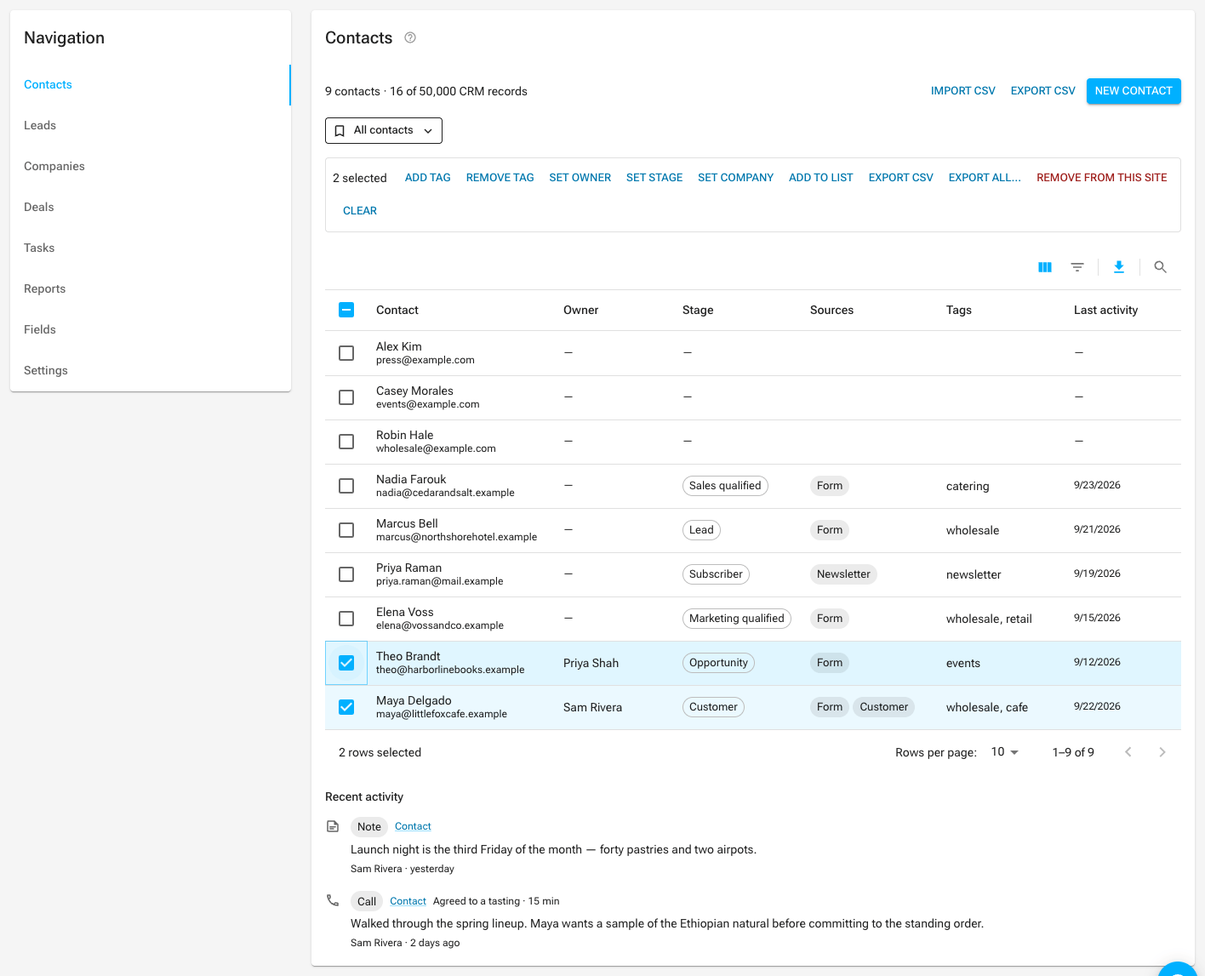
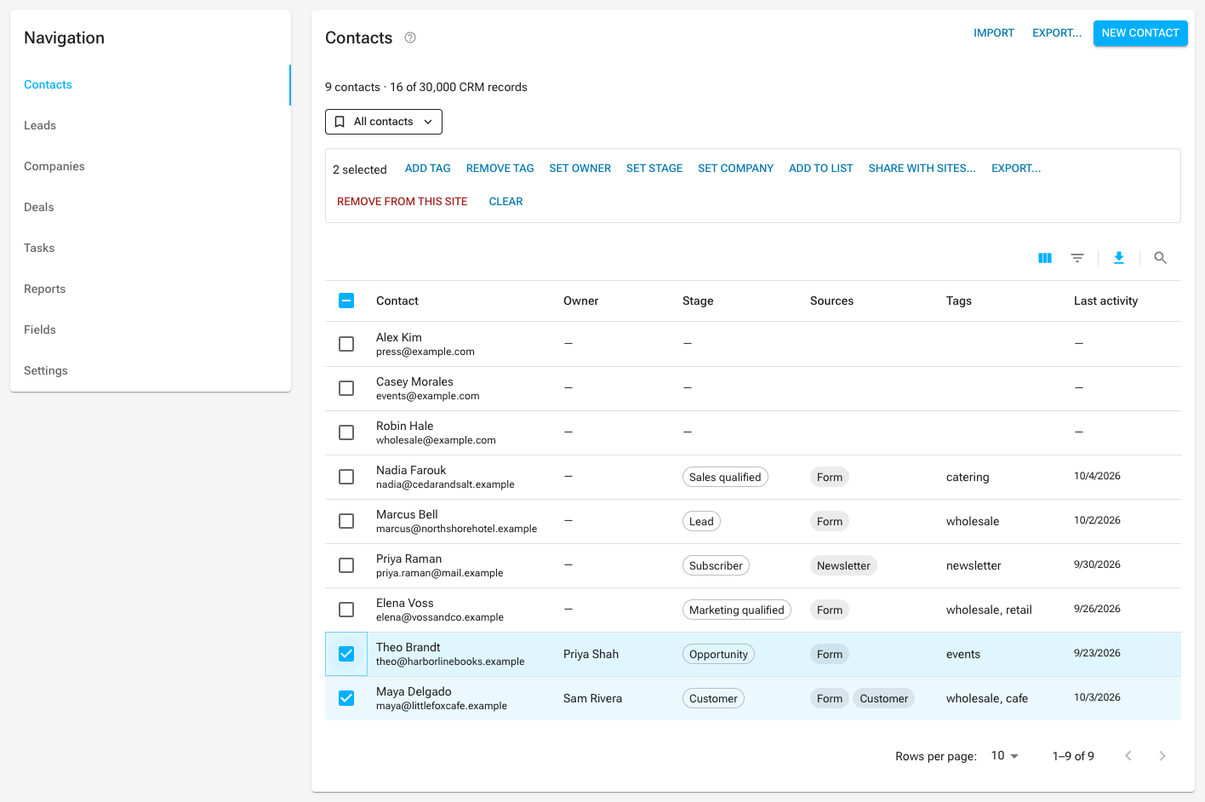
docs(data): import and export docs show the wizard, the field picker and the new buttons (AGL-3547)
Captured on the seeded emulator stack: the Data page with Import and
Export, the import wizard's Columns step, the export dialog's field
picker, the survey guide's Data page, and the CRM Contacts list with
its Import / Export… header and bulk Export… (the screenshot item of
AGL-3552). Prose that still sent readers to CSV / JSON buttons now
names Export and its formats.

diff --git a/libs/aglyn/src/lib/app-utils/docs-index.generated.ts b/libs/aglyn/src/lib/app-utils/docs-index.generated.ts
@@ -743,7 +743,7 @@ export const DOCS_SECTION_INDEX: readonly DocsSection[] = [
   { path: '/content-and-data/datasets/overview', title: 'Datasets & Dynamic Content', heading: 'Repeatable components', anchor: '#repeatable-components', text: 'Point any element at a dataset and it renders once per record — a list, a grid or a gallery driven by your data. A card, an image, a row, a whole placed component: each one is copied per record, and an element that holds a list can repeat its contents instead, so the element stays the frame the items fill.\nThe Besigner draws the real copies on the canvas, from your real records and in the order the published page will render them, and a repeat badge names what an element repeats over and how many records it found. The copy you edit is the design; changing it changes all of them.\nA filter, a sort and a limit narrow what renders, and a repeat renders at most 100 records however high the limit is set.\nSee Repeat over data for the full walkthrough.' },
   { path: '/content-and-data/datasets/overview', title: 'Datasets & Dynamic Content', heading: 'Record pages', anchor: '#record-pages', text: 'A dataset can also give every record a page of its own — a page per service, per location or per team member, each at its own address such as /services/kitchen-remodeling. You design one page and make it the dataset\'s record template in the Besigner\'s Page Properties, under Record pages: pick the dataset, the address the pages live under (one segment like services, or nested like services/residential), and the field that holds each record\'s own segment.\n- Each record\'s segment lives in a Page address field (see Build a data model). It can fill in from a name field, and it stays put when the record is renamed.\n- Inside the template, {{item.field}} fills in from the record, exactly as in a repeat, reference hop included. A listing that repeats over the dataset links to each page with {{item.url}}.\n- The template stops answering at its own address. Every record page is in the sitemap with its own canonical address, and /llms.txt names the group.\n- Record pages and their template don\'t count toward your plan\'s pages; your dataset limits bound them instead.\nSee Service and location pages from a dataset for the full walkthrough.' },
   { path: '/content-and-data/datasets/overview', title: 'Datasets & Dynamic Content', heading: 'Who a dataset is shared with', anchor: '#who-a-dataset-is-shared-with', text: 'Datasets belong to the workspace, not to a single site, so one dataset can drive pages on every site you run. When that isn\'t what you want, the Sharing control on each dataset decides which sites can see it:\n- All sites — everyone in the workspace, on every site.\n- Selected sites… — pick the sites that share it, up to 30.\nWhere a new dataset starts depends on where you create it and on your workspace\'s Default sharing for new data and media, the setting at the top of the workspace Media page:\n- Created on a site\'s Data page — it follows that setting. Set to All sites, the dataset starts on All sites. Set to Only the site they were created in, it starts shared with that site alone, and its control reads Selected sites… with just that site picked.\n- Created on the organization Data page — it starts on All sites whatever the setting says, because there is no site to limit it to.\n- Installed from the Marketplace, or created through the REST API — it starts on All sites too. Both act for the whole organization, not for one site.\nThe setting only decides where a new dataset starts. It changes nothing that already exists, and you can widen or narrow any dataset afterwards.\nA dataset with no sharing stored is visible to no site; its control reads Not shared with any site until you choose one of the two.\nThis matters most for agencies. If you run three internal sites alongside twelve client sites, your rate card can be shared with the internal three and stay invisible to the clients — including to the client collaborators you have invited, who will not see it in the Data page, the pickers, or anywhere else.\nSharing is enforced on the server, not just in the console. A site cannot render a dataset it hasn\'t been shared with even if a page explicitly asks for it by name.\nA few co' },
-  { path: '/content-and-data/datasets/overview', title: 'Datasets & Dynamic Content', heading: 'Import & export', anchor: '#import--export', text: 'Datasets round-trip via CSV and JSON: export your records, edit them elsewhere, and re-import with validation on the way in.\nA whole-site export includes the datasets and media that site can see, and nothing else — an agency exporting a client site gets that client\'s data only. It carries up to 50 datasets and 1,000 records from each, so export a larger dataset on its own. On restore, everything comes back shared with the site you restored into, not with whatever it was shared with before. Widen it afterwards if you meant to share it. That direction is deliberate: a bundle can be restored into a different site or a different workspace entirely, and quietly re-publishing one client\'s data across another\'s sites would be far worse than an extra click.' },
+  { path: '/content-and-data/datasets/overview', title: 'Datasets & Dynamic Content', heading: 'Import & export', anchor: '#import--export', text: 'Datasets round-trip as CSV, JSON or NDJSON: export the fields you choose, edit them elsewhere, and import them back through a wizard that matches columns and records and shows a dry run before anything is written — see Import & export.\nA whole-site export includes the datasets and media that site can see, and nothing else — an agency exporting a client site gets that client\'s data only. It carries up to 50 datasets and 1,000 records from each, so export a larger dataset on its own. On restore, everything comes back shared with the site you restored into, not with whatever it was shared with before. Widen it afterwards if you meant to share it. That direction is deliberate: a bundle can be restored into a different site or a different workspace entirely, and quietly re-publishing one client\'s data across another\'s sites would be far worse than an extra click.' },
   { path: '/content-and-data/datasets/overview', title: 'Datasets & Dynamic Content', heading: 'Related', anchor: '#related', text: '- Forms & lead capture\n- Bindings, variables & functions\n- Content collections & blog' },
   { path: '/content-and-data/datasets/relations', title: 'Relations', heading: '', anchor: '', text: 'Relations\nReal data is connected — posts have authors, products have categories. Relations let a record reference other records.\nPlan availability Starter and above — wherever datasets are available.' },
   { path: '/content-and-data/datasets/relations', title: 'Relations', heading: 'Reference fields', anchor: '#reference-fields', text: 'Add a reference field to a model to point at records in another dataset — the target picker never offers the dataset you are editing. For example, a post can reference its author.' },
@@ -1068,7 +1068,7 @@ export const DOCS_SECTION_INDEX: readonly DocsSection[] = [
   { path: '/guides/build-and-publish-a-survey', title: 'Build & publish a survey', heading: '4. Configure the fields', anchor: '#4-configure-the-fields', text: 'Select each Form Field and set its properties in the inspector:\n| Property | What it does |\n| Field name | The key the value is stored under in submissions (and in the inbox copy). |\n| Maps to schema field | Which of the dataset\'s schema fields this value is stored under. The dropdown lists the fields of the dataset chosen on the Form (see step 5) and stores the stable field id, so renaming the field later never breaks the mapping. Left on None, the value matches a dataset field by name instead. |\n| Label | The visible input label ("How satisfied are you?"). |\n| Placeholder | An optional gray hint inside the empty input ("you@company.com"). It is not a label — it disappears as soon as someone types, so always keep Label set. Radio, checkbox, and rating fields ignore it; a dropdown shows it until a choice is made. Clear it to remove the hint. |\n| Type | Text (default), Email, Multiline, Dropdown, Radio choice, Checkboxes, or Star rating. |\n| Options | Choices for dropdown, radio, and checkbox fields — one per line or comma-separated. Ignored by other types. |\n| Required? | Whether the field must be filled; a required checkbox group needs at least one box ticked. |\nPick the dataset first "Maps to schema field" lists the fields of whichever dataset the Form is pointed at — set the Form\'s Write to dataset (step 5) before mapping the fields, or the dropdown reads No dataset selected on the form.\nFor this survey:\n1. satisfaction — Type Star rating, label "How satisfied are you?". The five stars submit their count (4), which the form stores as text.\n2. visit — Type Radio choice, Options First time, Monthly, Weekly.\n3. topics — Type Checkboxes, Options Products, Support, Pricing. Visitors can tick several; the submission joins them with , .\n4. comments — Type Multiline for free' },
   { path: '/guides/build-and-publish-a-survey', title: 'Build & publish a survey', heading: '5. Point the form at the dataset', anchor: '#5-point-the-form-at-the-dataset', text: 'Select the Form container itself and fill its properties:\n- Form name — identifies the form in your submissions inbox (Visitor survey).\n- Write to dataset — pick Survey responses from the dropdown, which lists your organization\'s datasets by display name. The form stores the dataset\'s id, so renaming the dataset later never breaks the binding. Submissions append a record; the inbox always keeps its own copy either way.\n- Submit label — the button text (defaults to Send).\n- Success message — shown in place of the form after a successful submit.\nRename-safe by id Both pickers bind by stable id: the Form stores the dataset\'s document id and each field\'s "Maps to schema field" stores the model field id. Rename the dataset or its fields freely — records keep landing. Unmapped values still match schema fields by name (field name = field id); values that match nothing are dropped from the record (the inbox copy still has everything). Forms built before the pickers keep working through their stored dataset name — shown as Write to dataset (legacy name) until you pick the dataset above and clear it.' },
   { path: '/guides/build-and-publish-a-survey', title: 'Build & publish a survey', heading: '6. Publish', anchor: '#6-publish', text: 'Click Publish in the Besigner\'s top-right (it flips to Unpublish once live). If the page has no URL path yet you\'re prompted to set one first. The survey is now served at /survey on your site\'s domain.' },
-  { path: '/guides/build-and-publish-a-survey', title: 'Build & publish a survey', heading: '7. Watch responses arrive', anchor: '#7-watch-responses-arrive', text: 'Every submission does three things:\n- appends a record to Survey responses — the Data page updates live;\n- files an inbox copy under the form\'s name (see Forms & lead capture);\n- fires the formSubmission automation event, so workflows and actions can react (send a thank-you alert, notify your team, write other datasets).\nOn the Data page, use Filters (satisfaction = 5) or Search (a word from the comments) to narrow the records. Both reach every record in the dataset, not only the page on screen; a number field offers = but no ranges, and the column headers don\'t sort. See Filter and search the records. Export everything with the CSV / JSON buttons.\nChart it Bind a container\'s Repeat over dataset to Survey responses and reference {{item.satisfaction}} inside it to render responses back onto a (members-only?) results page. The deep-dive covers repeatables.' },
+  { path: '/guides/build-and-publish-a-survey', title: 'Build & publish a survey', heading: '7. Watch responses arrive', anchor: '#7-watch-responses-arrive', text: 'Every submission does three things:\n- appends a record to Survey responses — the Data page updates live;\n- files an inbox copy under the form\'s name (see Forms & lead capture);\n- fires the formSubmission automation event, so workflows and actions can react (send a thank-you alert, notify your team, write other datasets).\nOn the Data page, use Filters (satisfaction = 5) or Search (a word from the comments) to narrow the records. Both reach every record in the dataset, not only the page on screen; a number field offers = but no ranges, and the column headers don\'t sort. See Filter and search the records. Download the records with Export, which lets you pick the fields and the format (CSV, JSON or NDJSON) — see Import & export.\nChart it Bind a container\'s Repeat over dataset to Survey responses and reference {{item.satisfaction}} inside it to render responses back onto a (members-only?) results page. The deep-dive covers repeatables.' },
   { path: '/guides/build-and-publish-a-survey', title: 'Build & publish a survey', heading: 'Related', anchor: '#related', text: '- Datasets & schema deep-dive\n- Forms & lead capture\n- Publish your first page\n- Workflows & actions' },
   { path: '/guides/coming-soon-launch', title: 'Launch a coming-soon page', heading: '', anchor: '', text: 'Launch a coming-soon page while the rest of your site stays private\nYou have a domain, a half-built site, and a launch date. You want visitors to land on something deliberate — "here\'s what\'s coming, tell me when it\'s ready" — while the forty pages behind it stay out of Google until you\'re happy with them.\nThis walkthrough is the whole loop: build the page → make it home → hide the rest → collect signups → flip everything back on launch day. It\'s the same pattern Aglyn uses on its own site.\nPlan availability Everything here works on Free: pages, forms, the inbox, per-page visibility, and the site-wide search switch. Writing signups into a dataset (step 4) needs the data store, which unlocks on Starter and above — the inbox copy is always kept either way.' },
   { path: '/guides/coming-soon-launch', title: 'Launch a coming-soon page', heading: '1. Build the coming-soon page', anchor: '#1-build-the-coming-soon-page', text: 'Create the page first; you\'ll point your domain at it in step 2.\n1. Go to Pages → New page. Title it Coming soon. Give it any slug for now — coming-soon is fine — you\'ll change it to / in the next step.\n2. Open it in the Besigner and put the essentials on it. A coming-soon page that only says "coming soon" wastes the visit. Aim for:\n- What\'s coming, and roughly when. One sentence and a month beats a countdown timer you\'ll have to move.\n- A notify-me form — see below.\n- How to reach a human. An email address or a contact link; people who arrive early are often the ones who most want to talk to you.\n- Links out — your documentation, your changelog, your social accounts, wherever you already post. These give an early visitor somewhere to go instead of bouncing.\n3. Publish the page.\nThe notify-me form\nAdd a Form from the element picker with a single Form Field of type Email, and set the Form\'s Success message to something that confirms the signup ("Thanks — we\'ll email you when we open"). The Forms & lead capture page covers the form elements and every field property in full; the only thing that matters here is that you give the field a Field name you\'ll recognize later, such as email.' },
@@ -1094,7 +1094,7 @@ export const DOCS_SECTION_INDEX: readonly DocsSection[] = [
   { path: '/guides/datasets-and-schema', title: 'Datasets & schema deep-dive', heading: 'Import & export', anchor: '#import--export', text: 'The Data page moves records in and out as CSV, JSON or NDJSON:\n- Export opens a dialog where you pick the fields — every field of the dataset, plus the record\'s ID and its created and updated times — and whether to take every record or only what the table\'s filters show. Your choice is remembered for next time.\n- Import opens a step-by-step wizard: upload or paste a file, check how its columns match the dataset\'s fields, decide what happens to values the dataset does not hold, choose how rows find the records they update, and review a dry run before anything is written. An import can be undone for seven days.\nSee import & export for each step and the choices it offers.' },
   { path: '/guides/datasets-and-schema', title: 'Datasets & schema deep-dive', heading: 'Repeatables', anchor: '#repeatables', text: 'Containers (like a Stack) have a Repeat over dataset property. Set it and the container\'s children become an item template, rendered once per record on the published site:\n1. Select the container and set Repeat over dataset to your dataset (stored by id, so renames never break it).\n2. Inside the children, reference record values with {{item.fieldId}} — e.g. {{item.name}}, {{item.price}}.\n3. Reference fields support one hop: {{item.author.name}} resolves the referenced record\'s field.\n4. Optionally set a Repeat limit, a Repeat filter (price , >=, <, <=, contains), and a Repeat sort (price desc).\nThe canvas doesn\'t expand rows while designing — it shows a repeat notice on the container ("children render once per record on the live site") so you design a single template. Up to 100 records render per repeatable.' },
   { path: '/guides/datasets-and-schema', title: 'Datasets & schema deep-dive', heading: 'Everything that writes records', anchor: '#everything-that-writes-records', text: '| Writer | How it behaves |\n| Console — Add record / record editor | Typed inputs per field; validated and quota-checked. |\n| Console — Import records | Bulk CSV/JSON with validation, upsert, and quota math. |\n| Forms — the Form element\'s Write to dataset | Appends on each submission. The dataset is bound by id (a dropdown; legacy forms still match by name) and each form field can map to a schema field by id via Maps to schema field, with name-matching as the fallback — so renames never lose data. Best-effort (quota-full submissions keep only the inbox copy). See the survey guide. |\n| Automations — the Write to a dataset step | Appends a record from a workflow/action run. |\n| Automations — the Update a dataset record step | Updates a matching record (by email) or appends when none matches. |\nAutomation steps live in the Do list of an action — see workflows & actions.' },
-  { path: '/guides/datasets-and-schema', title: 'Datasets & schema deep-dive', heading: 'Deleting a dataset', anchor: '#deleting-a-dataset', text: 'Delete removes the dataset and every record in it, permanently — the confirmation tells you how many documents go with it. There is no undo and no retention window, so export first (CSV or JSON) if you might want the rows back. Deleting a single record from the table leaves the dataset itself alone.\nThe same applies to the two other things that hold records inside them: deleting an email list takes its enrolled subscribers, and deleting a collection takes the content entries published under it.' },
+  { path: '/guides/datasets-and-schema', title: 'Datasets & schema deep-dive', heading: 'Deleting a dataset', anchor: '#deleting-a-dataset', text: 'Delete removes the dataset and every record in it, permanently — the confirmation tells you how many documents go with it. There is no undo and no retention window, so Export it first if you might want the rows back. Deleting a single record from the table leaves the dataset itself alone.\nThe same applies to the two other things that hold records inside them: deleting an email list takes its enrolled subscribers, and deleting a collection takes the content entries published under it.' },
   { path: '/guides/datasets-and-schema', title: 'Datasets & schema deep-dive', heading: 'Related', anchor: '#related', text: '- Build & publish a survey\n- Datasets overview\n- Build a data model\n- Relations\n- Bindings, variables & functions' },
   { path: '/guides/install-your-first-plugin', title: 'Install your first marketplace item', heading: '', anchor: '', text: 'Install your first marketplace item\nThe Marketplace is where you add capability to Aglyn that you didn\'t build yourself: plugins, ready-made site templates, themes, layouts, components, dataset schemas and email templates. This guide walks the whole loop once — find, install, use, upgrade, remove — clicking every step.\nNo code, and nothing you can\'t undo. The only decision worth slowing down for is which sites it lands on, and step 4 is entirely about that.\nPlan availability Free to browse and install. Individual listings may cost money — the button says so before you buy. Publishing your own listing is a separate thing and needs Pro; see Publish a plugin.' },
   { path: '/guides/install-your-first-plugin', title: 'Install your first marketplace item', heading: 'Before you start', anchor: '#before-you-start', text: 'You need an organization with at least one site, and a role that can install. By default that\'s owner, admin and editor — installing is treated as content work, not an account setting. Viewers cannot, and a custom role can only if it carries the Install plugins permission.\nIf the Marketplace opens but the Install button doesn\'t, that\'s the role, not the plan — see Teams & roles.' },
@@ -1130,7 +1130,7 @@ export const DOCS_SECTION_INDEX: readonly DocsSection[] = [
   { path: '/guides/run-an-agency-workspace', title: 'Run an agency workspace', heading: 'Step 2 — Build your house style once', anchor: '#step-2-templates', text: 'The single biggest saving in agency work is not rebuilding the same footer.\n1. Build one site properly — nav, footer, contact page, legal pages, theme.\n2. Save it as a template from the site\'s settings. See Save a template.\n3. Start every new client from that template instead of from blank.\nTwo more things worth doing once:\n- Reusable components for the pieces you\'ll place on many pages within a site. Edit the component, every instance updates.\n- The organization media library for assets shared across clients — your own logo, stock photography you\'ve licensed, icon sets. Files there are available to every site in the workspace, so you upload once.\nKeep client assets in the client\'s site library The organization library is shared across every site. Client logos and photography belong in that site\'s library, not the shared one — otherwise the next project\'s media picker is full of the last client\'s brand.' },
   { path: '/guides/run-an-agency-workspace', title: 'Run an agency workspace', heading: 'Step 3 — Decide who can touch what', anchor: '#step-3-access', text: 'Aglyn has two shapes of teammate, and the distinction is the one agency-specific thing worth learning properly:\n| | Workspace manager | Site collaborator |\n| Sees | Every site in the organization | Only the sites you grant |\n| Costs | A manager seat | A collaborator seat on each site they can reach |\n| Use for | Your own staff | Contractors, and the client |\nThe Access column is where the difference shows: a manager reads All sites, a collaborator reads the number of sites they were granted. The line above the table counts the two separately, because only managers use a team seat.\nGive clients collaborator access, not manager access. A manager can see every other client\'s site, their content and their form submissions. That is usually a contractual problem, and it\'s not undone by anyone being careful.\nSteps:\n1. Organization → Team to add your own staff as managers — leave All sites ticked on the invite row.\n2. For a collaborator, invite them from the same page with All sites unticked, then use their Access cell to pick the sites and give each one a role. Access is granted per site from here, not from the site itself.\n3. Give a client who should draft but not go live the Author role on their site. It is the site role between Viewer and Editor: it can edit every kind of content — pages, layouts, components and collection entries — and it cannot publish any of it. No route, no live version, no scheduled publish, no published entry. It also cannot read the site\'s orders.\n4. Use custom roles for narrowing at the organization level — who may manage members, buy add-ons, or see billing.\nSeats are metered and enforced per plan, and both kinds are available as add-ons if you outgrow the included count. A pending invite holds a seat — the count is checked when you send it and aga' },
   { path: '/guides/run-an-agency-workspace', title: 'Run an agency workspace', heading: 'Step 4 — Domains and handover', anchor: '#step-4-domains', text: 'Each site gets a free .aglyn.app subdomain immediately, which is what you build and demo on. Connect the real domain at launch.\nThe handover question is who owns the DNS, and it\'s worth settling in writing at the start of a project rather than at 5pm on launch day:\n- You hold the registrar — fastest to launch, and you can fix things. It also means you\'re the one a client has to ask to leave, which some clients dislike and some contracts forbid.\n- The client holds the registrar — slower (you\'ll be sending them records to paste), cleaner to hand over, and the honest default for most work.\nEither way the records are the same, and the site\'s setup page shows them. See Connect a domain.' },
-  { path: '/guides/run-an-agency-workspace', title: 'Run an agency workspace', heading: 'Step 5 — Back up before you hand over', anchor: '#step-5-backups', text: 'On Pro and above, every site exports a full backup from its own settings. Take one:\n- before any large redesign, so "put it back how it was" is a real option;\n- at handover, and give the client a copy — it is theirs, and having it makes the relationship easier to end well;\n- before deleting anything. Deleting a site is immediate and permanent, with no hold period — unlike deleting an organization, which has one. There is no undo and we keep no copy.\nTake one from the site\'s Admin → Backup & template. It includes the datasets that site can see — up to 50, with up to 1,000 records each — so a larger dataset also wants its own export from the Data tab (CSV or JSON), which downloads every record.' },
+  { path: '/guides/run-an-agency-workspace', title: 'Run an agency workspace', heading: 'Step 5 — Back up before you hand over', anchor: '#step-5-backups', text: 'On Pro and above, every site exports a full backup from its own settings. Take one:\n- before any large redesign, so "put it back how it was" is a real option;\n- at handover, and give the client a copy — it is theirs, and having it makes the relationship easier to end well;\n- before deleting anything. Deleting a site is immediate and permanent, with no hold period — unlike deleting an organization, which has one. There is no undo and we keep no copy.\nTake one from the site\'s Admin → Backup & template. It includes the datasets that site can see — up to 50, with up to 1,000 records each — so a larger dataset also wants its own Export from the Data tab (CSV, JSON or NDJSON), which downloads every record.' },
   { path: '/guides/run-an-agency-workspace', title: 'Run an agency workspace', heading: 'Step 6 — Billing, and what to tell clients', anchor: '#step-6-billing', text: 'The invoice is yours, at the organization level. Aglyn doesn\'t bill your clients and doesn\'t split an invoice per site. However you charge them — retainer, per site, marked-up hosting — is between you and them.\nTwo things that are per site, and are the ones clients ask about:\n- Storefront platform fees come out of that site\'s own sales.\n- Usage meters (page views, storage, form submissions, emails) roll up to your organization total. A single client having a very good month can move your invoice, so watch the usage figures on the billing page rather than being surprised.\nSales tax is added on top of your plan price where applicable, calculated from your workspace\'s billing address — see Sales tax.' },
   { path: '/guides/run-an-agency-workspace', title: 'Run an agency workspace', heading: 'Step 7 — Automate the repetitive part', anchor: '#step-7-automate', text: 'Once you\'re running several sites, the console stops being the fastest way to do routine things. The REST API reads across one organization with one key:\n- Sites — enumerate every site in that organization and its domain, which is the basis of any status dashboard you build.\n- Form submissions — pull the leads from every site in the organization into one place, or into a CRM, and mark each one read as you go so the next run doesn\'t send it twice.\n- Orders and Products — for clients who sell.\n- Media — audit alt text across the organization\'s sites, or find what\'s filling your storage quota.\nStart with Your first API call, which walks through creating a key and making a request from scratch.\nA key never spans organizations API keys are minted per organization, and every endpoint is scoped to the organization the key belongs to. There is no key that reads across several.\nSo this step is only a single request if you took the one organization side of the choice in the mental model — clients as sites in your workspace. If you took the other side and each client owns their own organization, you need one key per client organization and your script loops over them. That is a real difference in effort, and it is the trade for the clean exit a separate organization gives you.\nOne key per purpose Create a separate key for each integration, scoped to the least it needs. A key that only reads form submissions can\'t be turned into a data breach across every site in the organization, and revoking one doesn\'t take the others down.' },
   { path: '/guides/run-an-agency-workspace', title: 'Run an agency workspace', heading: 'A checklist you can reuse per project', anchor: '#checklist', text: 'This is a list to keep yourself — in your own tracker, or pasted into a project brief. The console does not track it for you.\n- [ ] Site created from your house template\n- [ ] Client added as a site collaborator, not a manager\n- [ ] Theme, logo, favicon set from the client\'s brand\n- [ ] Legal pages present (privacy, terms, cookie banner if needed)\n- [ ] Custom domain connected and verified\n- [ ] SEO basics: titles, descriptions, social image, sitemap reachable\n- [ ] Analytics visible to the client\n- [ ] Backup taken and a copy given to the client\n- [ ] Who holds the registrar, written down somewhere you\'ll find it' },

diff --git a/apps/docs/docs/guides/build-and-publish-a-survey.md b/apps/docs/docs/guides/build-and-publish-a-survey.md
@@ -48,7 +48,7 @@ organization **Data** page (or any site's Data page — both edit the same data)
    - `comments` → type **Text**.
 4. **Save schema**.
 
-![A site's Data page with the Survey responses dataset selected: the Add record, Schema, Import, CSV and JSON buttons above the records table and its Columns, Filters, Export and Search controls](/img/guides/survey-data-page.png)
+![A site's Data page with the Survey responses dataset selected: the Add record, Schema, Import, Export and Delete buttons above the records table and its Columns, Filters, Export and Search controls](/img/guides/survey-data-page.png)
 
 Each field's **Display name** is what you see in dialogs and table headers; the
 **field id** next to it (a slug generated once from the display name) is the
@@ -165,7 +165,8 @@ On the Data page, use **Filters** (`satisfaction` `=` `5`) or **Search** (a word
 the comments) to narrow the records. Both reach every record in the dataset, not only the
 page on screen; a number field offers `=` but no ranges, and the column headers don't
 sort. See [Filter and search the records](../content-and-data/datasets/overview.md#filter-records).
-Export everything with the **CSV** / **JSON** buttons.
+Download the records with **Export**, which lets you pick the fields and the format
+(CSV, JSON or NDJSON) — see [Import & export](../content-and-data/datasets/import-export.md).
 
 ![The Data page after a submission: the new survey response in the records table, under the table's Columns, Filters, Export and Search controls](/img/guides/survey-records-after-submit.png)
 

diff --git a/apps/docs/docs/content-and-data/datasets/import-export.md b/apps/docs/docs/content-and-data/datasets/import-export.md
@@ -28,6 +28,8 @@ format.
 
 ### Choose the fields {#export-fields}
 
+![The export dialog: a preset, the searchable list of fields to tick and order, the records and the format](/img/datasets/export-dialog.png)
+
 Every field of the dataset is offered, plus three the platform keeps on every record:
 the record's **Aglyn ID**, and when it was **Created** and last **Updated**. Search the
 list, tick what you want, and move fields up or down to set the column order. Presets
@@ -79,6 +81,8 @@ looks wrong. A file is refused before upload when it holds more than **50,000 ro
 split it and import each part.
 
 ### 2. Columns {#import-columns}
+
+![The import wizard's Columns step: each column of the file matched to a field of the dataset, with how sure the match is](/img/datasets/import-wizard-columns.png)
 
 Each column is matched to a field of the dataset, with how sure the match is: by the
 field's name, by its ID (what older exports used as headers), by a close spelling, or by

diff --git a/apps/docs/docs/content-and-data/crm/overview.md b/apps/docs/docs/content-and-data/crm/overview.md
@@ -23,7 +23,7 @@ opens at the **organization** level, over every site at once, at
 `…/contacts` address, under a site or under the organization — still opens the
 hub.
 
-![The Contacts section of the CRM: the contacts table with two rows selected, the bulk bar offering Add tag, Remove tag, Set owner, Set stage, Set company, Add to list, Export CSV, Export all and Remove from this site, and the table's own Columns, Filters, Export and Search controls](/img/contacts/crm-contacts.png)
+![The Contacts section of the CRM: Import, Export… and New contact in the card's header, the contacts table with two rows selected, the bulk bar offering Add tag, Remove tag, Set owner, Set stage, Set company, Add to list, Share with sites…, Export… and Remove from this site, and the table's own Columns, Filters, Export and Search controls](/img/contacts/crm-contacts.png)
 
 ```mermaid
 flowchart LR

diff --git a/apps/docs/docs/content-and-data/datasets/overview.md b/apps/docs/docs/content-and-data/datasets/overview.md
@@ -213,8 +213,9 @@ A few consequences worth knowing:
 
 ## Import & export
 
-Datasets round-trip via **CSV and JSON**: export your records, edit them elsewhere, and
-re-import with validation on the way in.
+Datasets round-trip as **CSV, JSON or NDJSON**: export the fields you choose, edit them
+elsewhere, and import them back through a wizard that matches columns and records and
+shows a dry run before anything is written — see [Import & export](./import-export.md).
 
 A whole-site export includes the datasets and media **that site can see**, and nothing
 else — an agency exporting a client site gets that client's data only. It carries up to

diff --git a/apps/docs/docs/guides/run-an-agency-workspace.md b/apps/docs/docs/guides/run-an-agency-workspace.md
@@ -171,7 +171,7 @@ On **Pro and above**, every site exports a full backup from its own settings. Ta
 
 Take one from the site's **Admin → Backup & template**. It includes the datasets that
 site can see — up to 50, with up to 1,000 records each — so a larger dataset also wants
-its own export from the **Data** tab (**CSV** or **JSON**), which downloads every record.
+its own **Export** from the **Data** tab (CSV, JSON or NDJSON), which downloads every record.
 
 ## Step 6 — Billing, and what to tell clients {#step-6-billing}
 

diff --git a/apps/docs/docs/guides/datasets-and-schema.md b/apps/docs/docs/guides/datasets-and-schema.md
@@ -179,7 +179,7 @@ Automation steps live in the **Do** list of an action — see
 
 **Delete** removes the dataset *and every record in it*, permanently — the
 confirmation tells you how many documents go with it. There is no undo and no
-retention window, so export first (**CSV** or **JSON**) if you might want the
+retention window, so **Export** it first if you might want the
 rows back. Deleting a single record from the table leaves the dataset itself
 alone.
 
